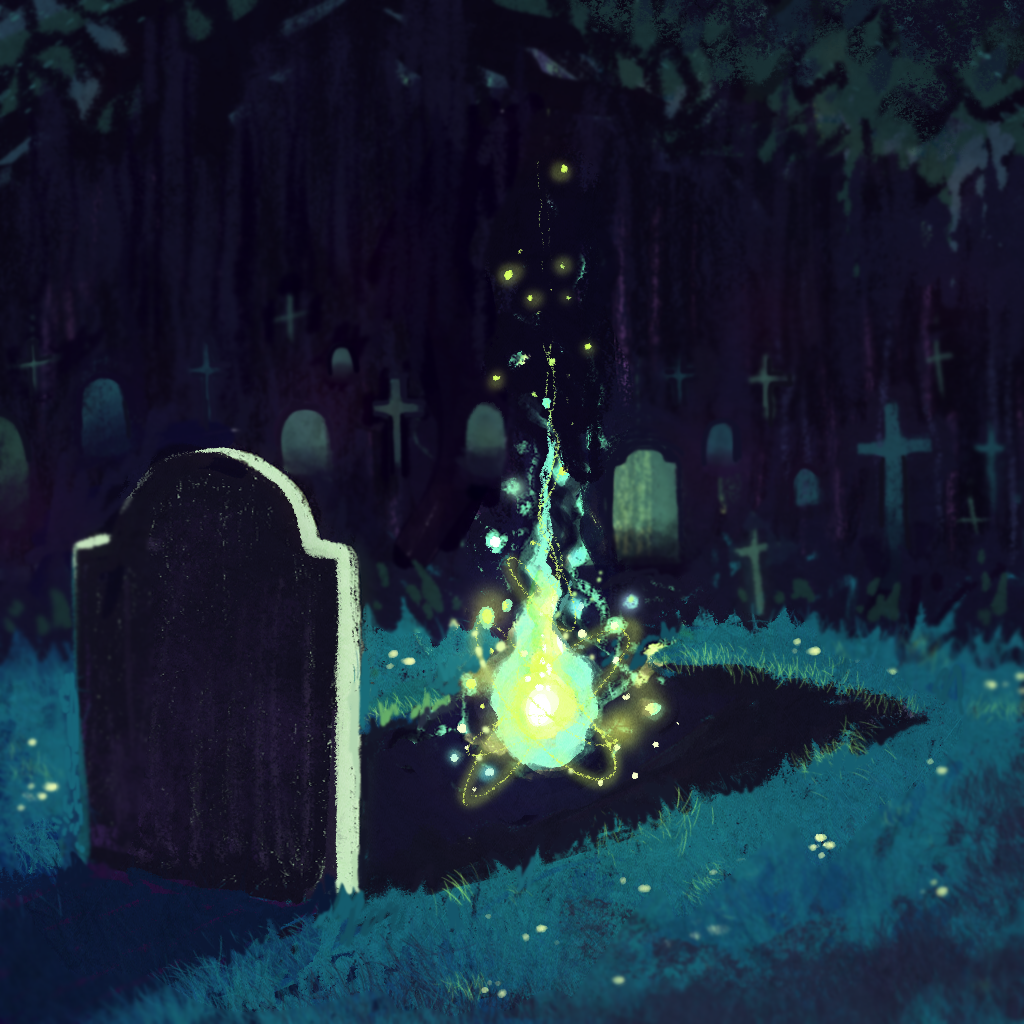
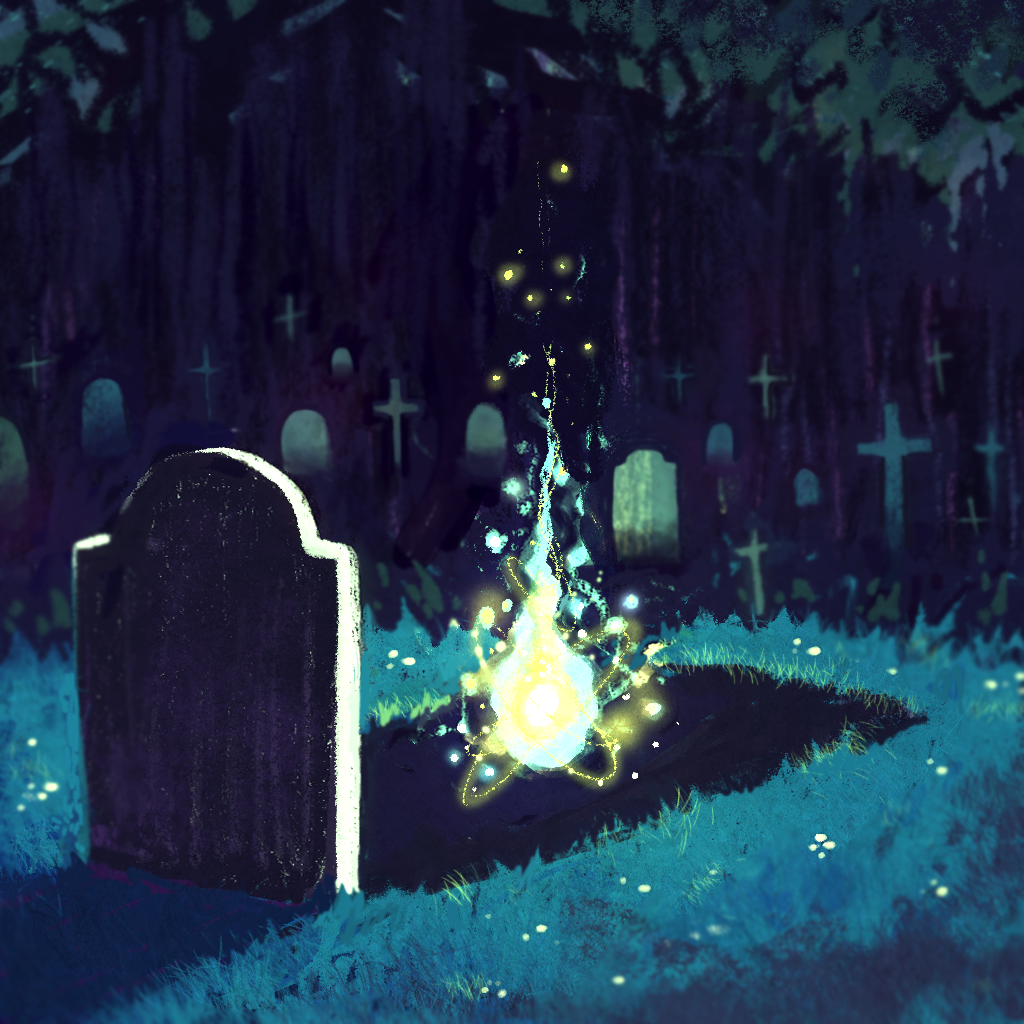
fixed moving point light

diff --git a/game/Assets/Scripts/Managers/BattleManager.cs b/game/Assets/Scripts/Managers/BattleManager.cs
@@ -37,8 +37,9 @@ public class BattleManager : MonoBehaviour
     private Transform playerHandTransform;
     public Transform PlayerHandTransform => playerHandTransform;
 
-    private GameObject lightGameObject;
-    public GameObject LightGameObject => lightGameObject;
+    [SerializeField]
+    private GameObject lightObject;
+    public GameObject LightObject => lightObject;
     [SerializeField]
     private GameObject boardMessageGameObject;
     // --
@@ -68,16 +69,16 @@ public class BattleManager : MonoBehaviour
     {
         Instance = this;
 
-        this.lightGameObject = GameObject.Find("Point Light");
         this.attackCommand.SetWidth(0);
         this.validTargets = new List<TargetableObject>();
+        ChooseRandomSetting();
     }
 
     private void Start()
     {
+        this.lightObject = GameObject.Find("Point Light");
         this.battleLayer = LayerMask.NameToLayer("Battle");
         this.boardOrBattleLayer = LayerMask.GetMask(new string[2] { "Board", "Battle" });
-        ChooseRandomSetting();
 
         if (!FlagHelper.IsServerEnabled())
         {
@@ -153,7 +154,7 @@ public class BattleManager : MonoBehaviour
             BattleCardObject target = ActionManager.Instance.GetDragTarget() as BattleCardObject;
             if (target != null && GetCardDisplacement(target) > CARD_DISPLACEMENT_THRESHOLD)
             {
-                target.visual.SetOutlineColors(Color.cyan, Color.green);
+                target.visual.SetOutlineColors(Color.yellow, Color.green);
             }
             else
             {

diff --git a/game/Assets/Scripts/Data Structures/Player.cs b/game/Assets/Scripts/Data Structures/Player.cs
@@ -177,13 +177,14 @@ public class Player
             targetPosition = BattleManager.Instance.EnemyHandTransform.position;
         }
 
+        LeanTween.cancel(BattleManager.Instance.LightObject);
         LeanTween
             .move(
-                BattleManager.Instance.LightGameObject,
+                BattleManager.Instance.LightObject,
                 new Vector3(
                     targetPosition.x,
                     targetPosition.y,
-                    BattleManager.Instance.LightGameObject.transform.position.z
+                    BattleManager.Instance.LightObject.transform.position.z
                 ),
                 0.4f
             )
@@ -757,7 +758,7 @@ public class Player
         cards.Add(new SpellCard(GetNewCardId(), Card.CARD_NAME_SILENCE_OF_THE_LAMBS, 1));
         cards.Add(new SpellCard(GetNewCardId(), Card.CARD_NAME_MUDSLINGING, 1));
         cards.Add(new SpellCard(GetNewCardId(), Card.CARD_NAME_DEATH_NOTE, 1));
-        cards.Add(new SpellCard(GetNewCardId(), Card.CARD_NAME_SPRAY_N_PRAY, 1));
+        cards.Add(new SpellCard(GetNewCardId(), Card.CARD_NAME_BOMBS_AWAY, 1));
         cards.Add(new SpellCard(GetNewCardId(), Card.CARD_NAME_GRAVE_DIGGING, 1));
         cards.Add(new SpellCard(GetNewCardId(), Card.CARD_NAME_THE_SEVEN, 1));
         cards.Add(new SpellCard(GetNewCardId(), Card.CARD_NAME_BESTOWED_VIGOR, 1));

diff --git a/game/Assets/Scripts/Data Structures/Card.cs b/game/Assets/Scripts/Data Structures/Card.cs
@@ -72,7 +72,7 @@ public abstract class Card
     public const string CARD_NAME_GREEDY_FINGERS = "Greedy Fingers";
     public const string CARD_NAME_SILENCE_OF_THE_LAMBS = "Silence of the Lambs";
     public const string CARD_NAME_MUDSLINGING = "Mudslinging";
-    public const string CARD_NAME_SPRAY_N_PRAY = "Spray n' Pray";
+    public const string CARD_NAME_BOMBS_AWAY = "Bombs Away";
     public const string CARD_NAME_GRAVE_DIGGING = "Grave-digging";
     public const string CARD_NAME_THE_SEVEN = "The Seven";
     public const string CARD_NAME_BATTLE_ROYALE = "Battle Royale";
@@ -144,7 +144,7 @@ public abstract class Card
         CARD_NAME_GREEDY_FINGERS,
         CARD_NAME_SILENCE_OF_THE_LAMBS,
         CARD_NAME_MUDSLINGING,
-        CARD_NAME_SPRAY_N_PRAY,
+        CARD_NAME_BOMBS_AWAY,
         CARD_NAME_GRAVE_DIGGING,
         CARD_NAME_THE_SEVEN,
         CARD_NAME_BATTLE_ROYALE,
@@ -776,7 +776,7 @@ public class SpellCard : Card
         CARD_NAME_GREEDY_FINGERS,
         CARD_NAME_SILENCE_OF_THE_LAMBS,
         CARD_NAME_MUDSLINGING,
-        CARD_NAME_SPRAY_N_PRAY,
+        CARD_NAME_BOMBS_AWAY,
         CARD_NAME_GRAVE_DIGGING,
         CARD_NAME_THE_SEVEN,
         CARD_NAME_BATTLE_ROYALE,

diff --git a/game/Assets/Scripts/Managers/EffectManager.cs b/game/Assets/Scripts/Managers/EffectManager.cs
@@ -1698,7 +1698,7 @@ public class EffectManager : MonoBehaviour
                 Debug.LogError("Unsupported.");
             }
         }
-        else if (card.Name == Card.CARD_NAME_SPRAY_N_PRAY)
+        else if (card.Name == Card.CARD_NAME_BOMBS_AWAY)
         {
             PlayerAvatar attackingTargetable = BattleState.Instance().GetPlayerById(playerId).Avatar;
             Targetable defendingTargetable = Board.Instance().GetTargetableByPlayerIdAndCardId(fieldId, targetId);
@@ -1989,7 +1989,7 @@ public class EffectManager : MonoBehaviour
             case Card.CARD_NAME_MUDSLINGING:
                 effects = SpellUntargetedMudslinging(playerId);
                 break;
-            case Card.CARD_NAME_SPRAY_N_PRAY:
+            case Card.CARD_NAME_BOMBS_AWAY:
                 effects = SpellUntargetedSprayNPray(playerId, challengeCard);
                 break;
             case Card.CARD_NAME_GRAVE_DIGGING:

diff --git a/game/Assets/Scripts/Editor/CardEditorPanel.cs b/game/Assets/Scripts/Editor/CardEditorPanel.cs
@@ -356,7 +356,7 @@ public class CardEditorPanel : EditorWindow
             EditorGUI.PrefixLabel(new Rect(23, position.height - 25, position.width - 6, 20), 0, new GUIContent("No background texture found"));
         }
         frameMat.color = CardTemplate.ColorFromClass(template.classColor);
-        EditorGUI.DrawPreviewTexture(new Rect(5, position.height - 400, 280, 390), this.cardFrame, frameMat);  //hardcoded for card frame
+        EditorGUI.DrawPreviewTexture(new Rect(10, position.height - 400, 265, 390), this.cardFrame, frameMat);  //hardcoded for card frame
     }
 
     private void CardDefaultSection(CardTemplate template, int verticalOffset)
